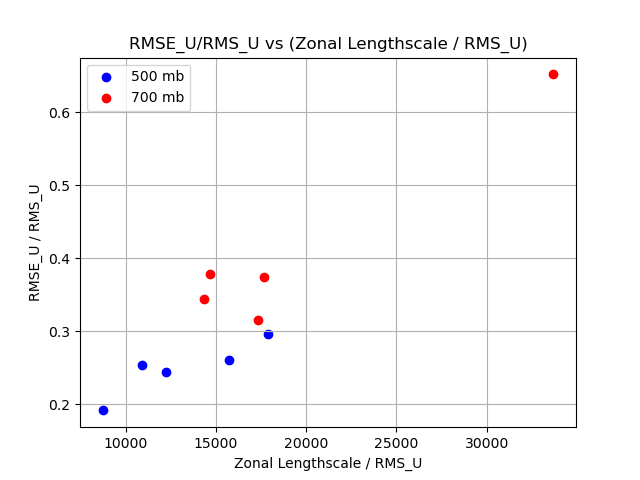
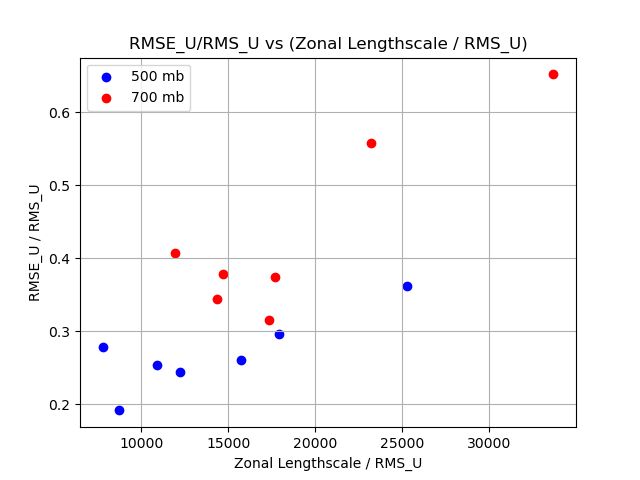
plots

diff --git a/hrrr/datas_post.py b/hrrr/datas_post.py
@@ -70,11 +70,11 @@ for data in filtered_fit:
     os.makedirs(level_dir, exist_ok=True)
 
     for frame_num in frames:
-        indices = torch.randperm(datas_pre[0].m)
-        fig = data.plot_observations(indices, frame=frame_num)
-        plot_path = os.path.join(level_dir, f"scalar_plot_frame_{frame_num}.png")
-        fig.savefig(plot_path)
-        plt.close(fig)
+        #indices = torch.randperm(datas_pre[0].m)
+        #fig = data.plot_observations(indices, frame=frame_num)
+        #plot_path = os.path.join(level_dir, f"scalar_plot_frame_{frame_num}.png")
+        #fig.savefig(plot_path)
+        #plt.close(fig)
 
         indices = data.indices[:600]
         fig = data.plot_vel(indices, frame=frame_num, color="red")

diff --git a/main/optimize.py b/main/optimize.py
@@ -75,7 +75,7 @@ def fl_vecchia(data, num_epochs=100):
         
         
     optimizer = torch.optim.AdamW([
-        {'params': flow.parameters(), 'lr':  1e-2},
+        {'params': flow.parameters(), 'lr':  0.001, "weight_decay": 0.1},
         {'params': gp.kernel.base_kernel.parameters(), 'lr': 0.1},
         ])
         
@@ -97,7 +97,7 @@ def fl_vecchia(data, num_epochs=100):
                 
                 loss = 0
                 for i in range(1,data.n):
-                    j = max(0, i-1)
+                    j = max(0, i-2)
                     with torch.no_grad():
                         points0 = torch.cat(points[j:i]).cuda()
                         Z0 = torch.cat(Z[j:i]).reshape(-1).cuda()

diff --git a/hrrr/datas_pre.py b/hrrr/datas_pre.py
@@ -8,7 +8,7 @@ from main import get_data, model, tools
 
 levels = ["500 mb", "700 mb"]
 extent =[-96, -75, 26, 37]
-dates = [ "2024-08-18", "2024-06-23", "2024-07-24", "2024-09-30", "2024-10-11"] #+ tools.generate_dates(11)
+dates = [ "2024-06-23", "2024-07-25", "2024-08-06", "2024-08-18","2024-09-13", "2024-09-30", "2024-10-11"] + tools.generate_dates(3)
 file_path = f'datas/datas_pre.pkl'
 
 if os.path.exists(file_path):
